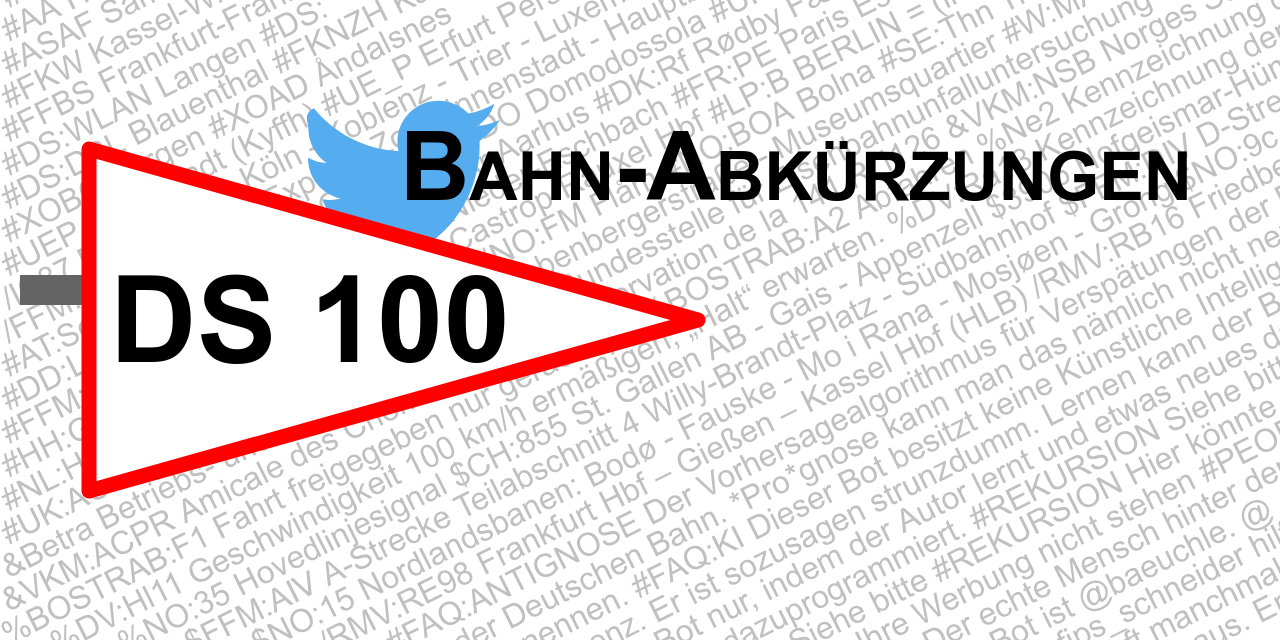
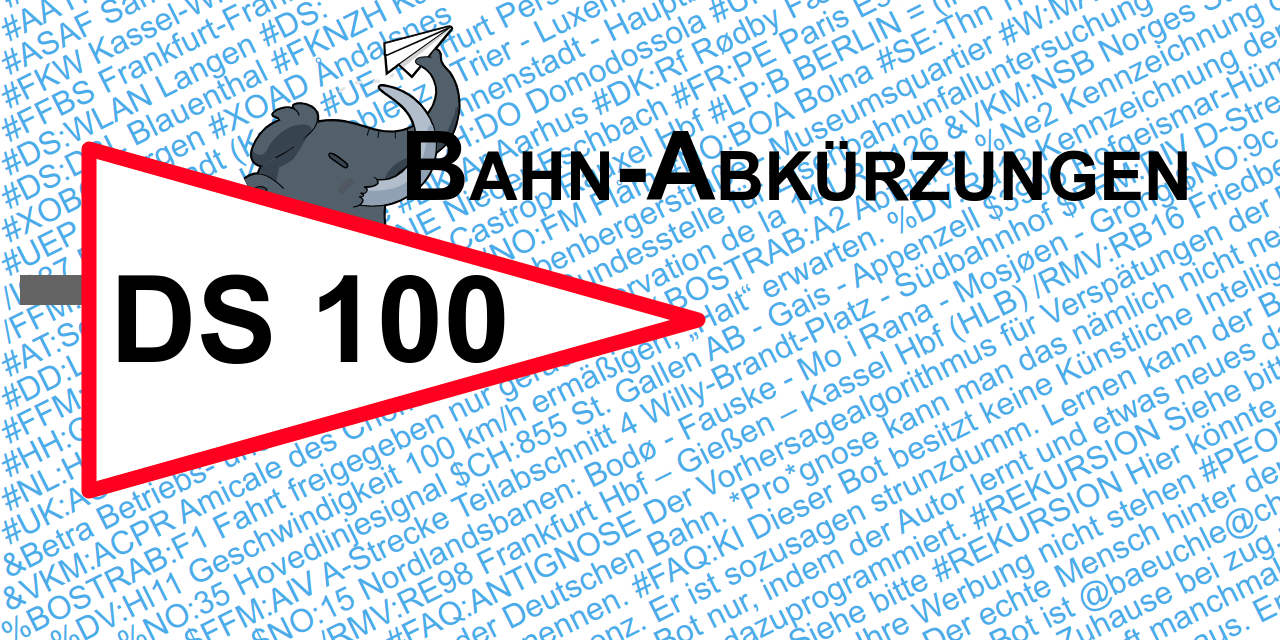
FUCK TWITTER. (More progress to get rid of it)

Changed region(s): [[0.0, 0.0, 1.0, 1.0]]

diff --git a/Externals/mastodon.py b/Externals/mastodon.py
@@ -25,7 +25,7 @@ def set_arguments(ap):
                         required=True)
     group.add_argument('--readwrite',
                         action='store_true',
-                        help="Don't tweet, only read tweets.",
+                        help="Don't toot, only read toots.",
                         required=False)
 
 class Mastodon(Network):
@@ -51,16 +51,16 @@ class Mastodon(Network):
         if self.readonly:
             return None
         if 'reply_to_status' in kwargs:
-            orig_tweet = kwargs.pop('reply_to_status')
-            if orig_tweet:
+            orig_toot = kwargs.pop('reply_to_status')
+            if orig_toot:
                 try:
-                    return self.api.status_reply(orig_tweet, text)
+                    return self.api.status_reply(orig_toot, text)
                 except MastodonAPIError:
                     logger.exception("Error while tooting reply >%s<", text)
                     text = text[:len(text//2)] + " THIS TOOT WAS TOO LONG cc @baeuchle@chaos.social"
                     logger.critical("Now re-trying with >%s<", text)
                     try:
-                        return self.api.status_reply(orig_tweet, text)
+                        return self.api.status_reply(orig_toot, text)
                     except MastodonAPIError:
                         logger.exception("Second-level error while tooting reply")
         # not replying to anything:

diff --git a/Externals/Measure.py b/Externals/Measure.py
@@ -23,7 +23,7 @@ class Measure:
         text_so_far = ""
         for part in possible_parts:
             if not self.is_short_enough(part):
-                # next part is too big: put into its own tweet, separated with next
+                # next part is too big: put into its own status, separated with next
                 # separator.
                 if len(text_so_far.strip()) > 0:
                     status_list.append(text_so_far.strip())

diff --git a/Externals/network.py b/Externals/network.py
@@ -152,7 +152,7 @@ Mehr Informationen findest du unter https://ds100.frankfurtium.de/finde-listen.h
         if other_id in tlist:
             logger.debug("get_other_status: other_id %d already in %s", other_id, str(tlist))
             return None
-        logger.debug("Trying to get other tweet")
+        logger.debug("Trying to get other status")
         msg = self.get_status(other_id)
         if not msg:
             return None

diff --git a/Mock/__init__.py b/Mock/__init__.py
@@ -1,4 +1,4 @@
-"""Classes for mocking fake tweets and parsing those."""
+"""Classes for mocking fake toots and parsing those."""
 
 from .Api import MockApi
 from .Tweet import TweepyMock
